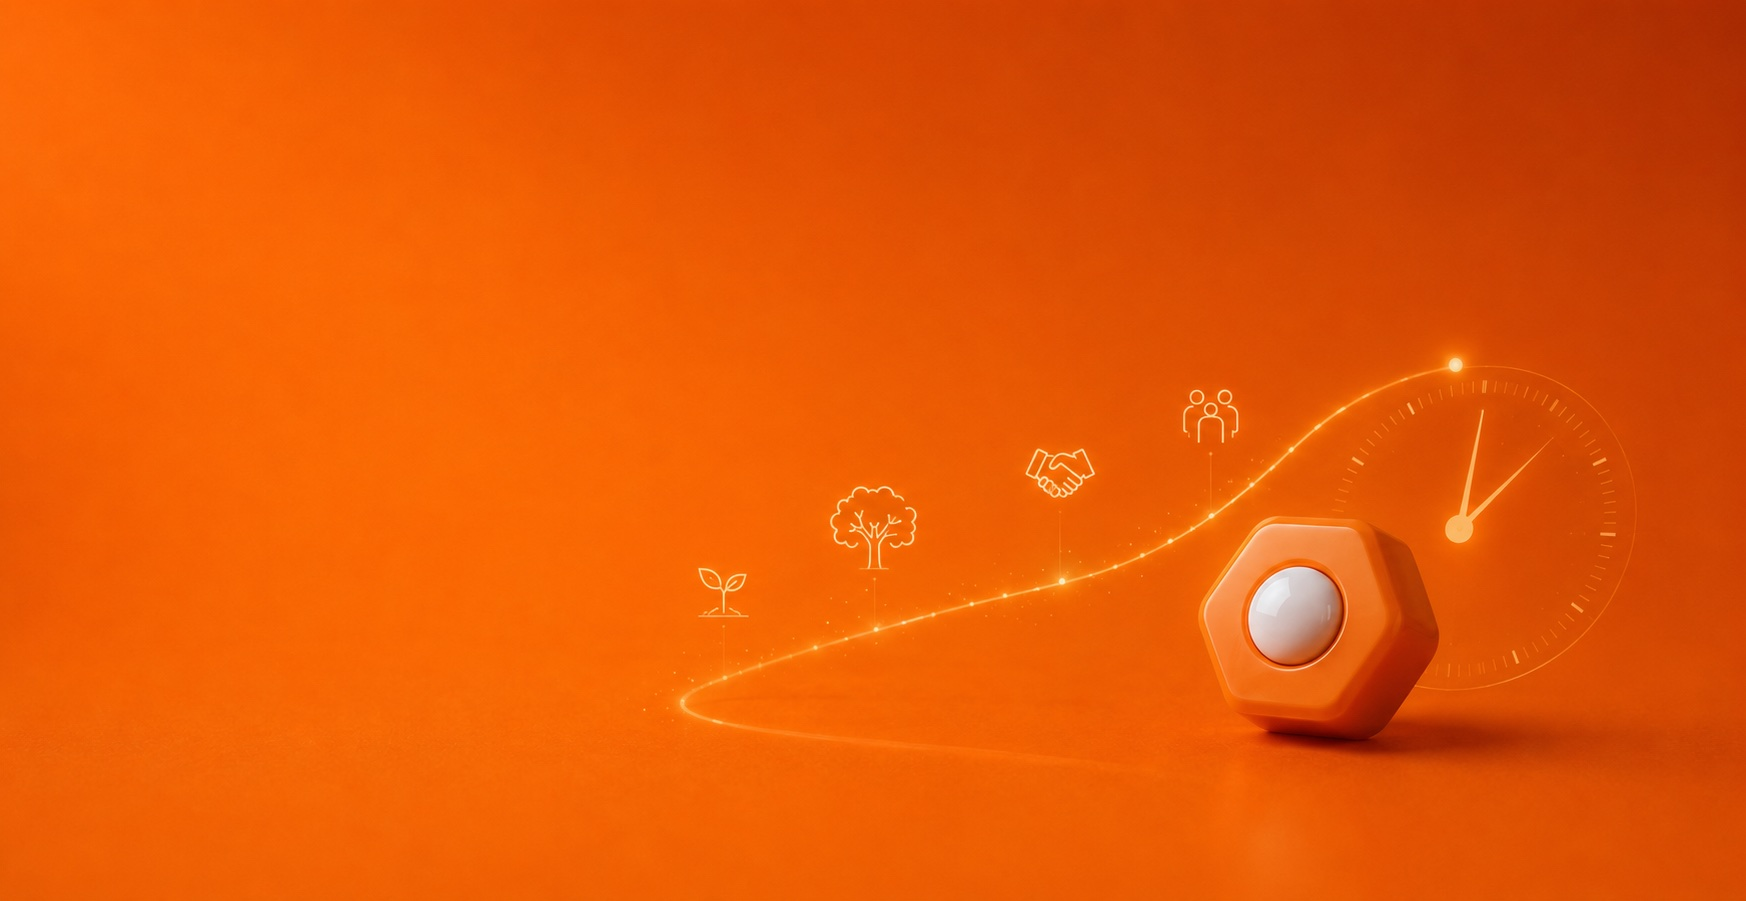
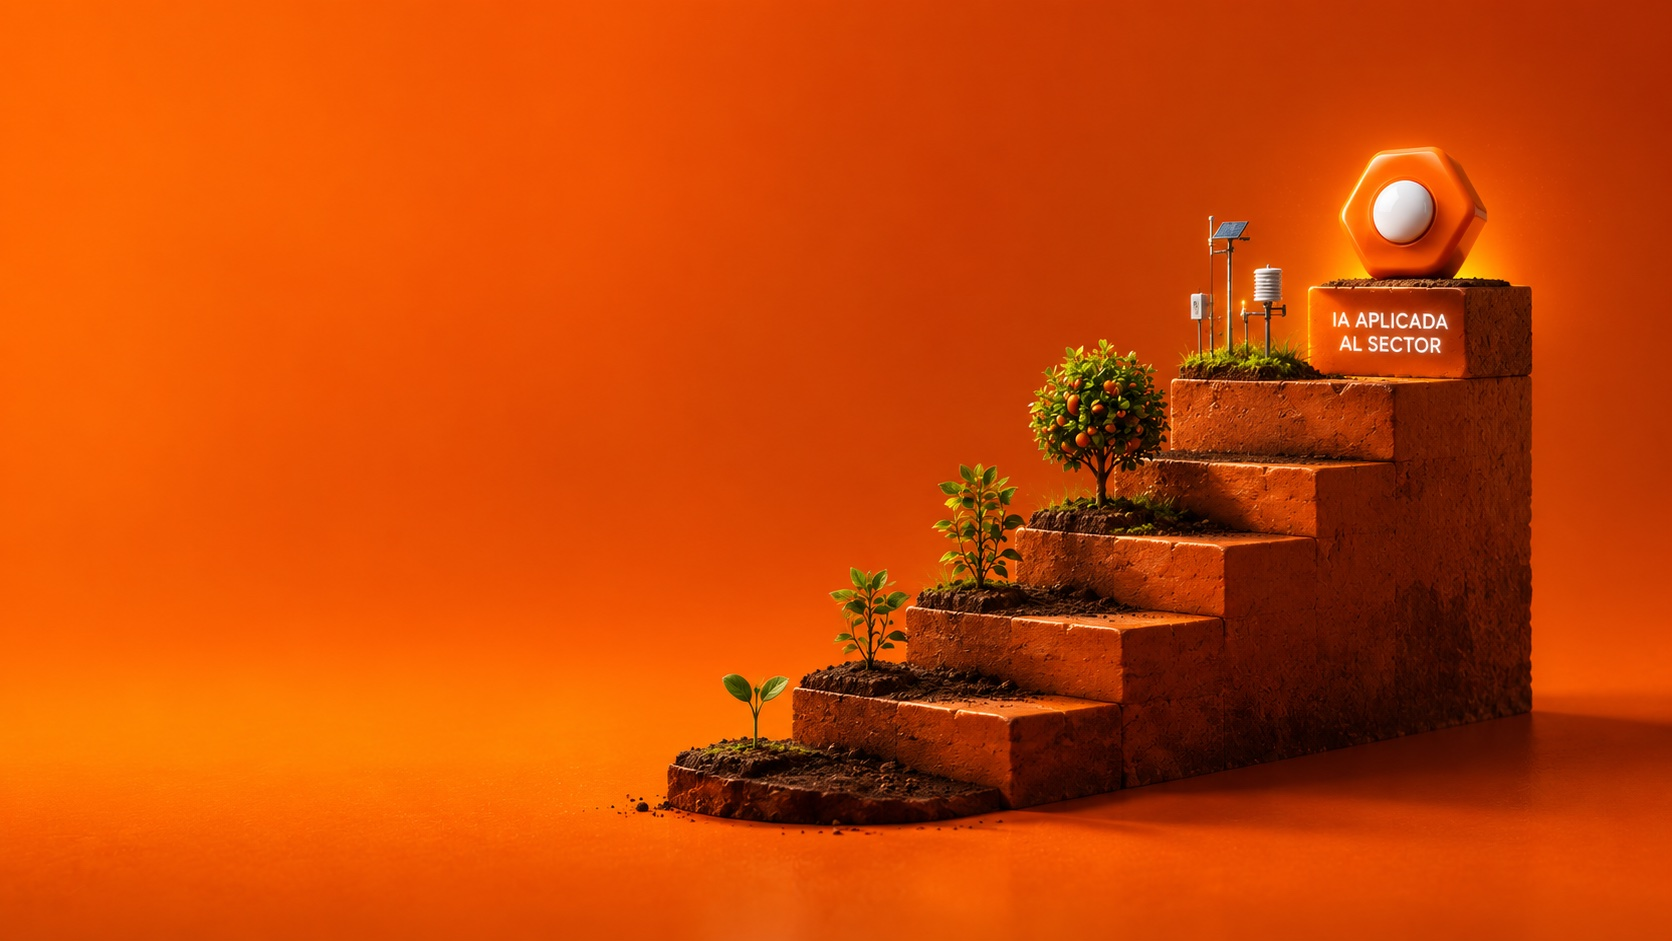
Nosotros hero: nueva imagen escalera de tierra "IA aplicada al sector"
Reemplaza img/nosotros-hero.jpg por la nueva versión: escalera
de tierra ascendente que progresa de un brote → planta → árbol
con frutos → estación meteorológica con sensores → hexágono
naranja con perla en pedestal grabado "IA APLICADA AL SECTOR".
Visualmente potente para representar la trayectoria histórica
de la empresa (2014 → hoy).

- Imagen comprimida con sips JPG 85%: 268KB.
- Cache buster en el background-image: nosotros-hero.jpg?v=2
  para forzar refresh en navegadores que tengan la versión
  anterior cacheada.

Cache bust v63 -> v64.

diff --git a/nosotros.html b/nosotros.html
@@ -29,7 +29,7 @@
   <link rel="preconnect" href="https://fonts.googleapis.com" />
   <link rel="preconnect" href="https://fonts.gstatic.com" crossorigin />
   <link href="https://fonts.googleapis.com/css2?family=Outfit:wght@200;300;400;500;600;700;800;900&family=Bricolage+Grotesque:opsz,wdth,wght@12..96,75..100,400..800&display=swap" rel="stylesheet" />
-  <link rel="stylesheet" href="styles.css?v=63" />
+  <link rel="stylesheet" href="styles.css?v=64" />
 </head>
 <body>
   <!-- Brand mark — referenciable como <use href="#m-nucleo"/> -->
@@ -108,7 +108,7 @@
     <!-- HERO · cinemático para nosotros -->
     <section class="page-hero page-hero--cinema">
       <div class="page-hero__media">
-        <div class="page-hero__image" style="background-image: url('img/nosotros-hero.jpg')"></div>
+        <div class="page-hero__image" style="background-image: url('img/nosotros-hero.jpg?v=2')"></div>
         <div class="page-hero__overlay"></div>
       </div>
       <div class="page-hero__shell">
@@ -369,6 +369,6 @@
   <script src="https://cdn.jsdelivr.net/npm/gsap@3.12.5/dist/gsap.min.js"></script>
   <script src="https://cdn.jsdelivr.net/npm/gsap@3.12.5/dist/ScrollTrigger.min.js"></script>
   <script src="https://unpkg.com/lenis@1.1.13/dist/lenis.min.js"></script>
-  <script src="script.js?v=63"></script>
+  <script src="script.js?v=64"></script>
 </body>
 </html>

diff --git a/aviso-legal.html b/aviso-legal.html
@@ -27,7 +27,7 @@
   <link rel="preconnect" href="https://fonts.googleapis.com" />
   <link rel="preconnect" href="https://fonts.gstatic.com" crossorigin />
   <link href="https://fonts.googleapis.com/css2?family=Outfit:wght@200;300;400;500;600;700;800;900&family=Bricolage+Grotesque:opsz,wdth,wght@12..96,75..100,400..800&display=swap" rel="stylesheet" />
-  <link rel="stylesheet" href="styles.css?v=63" />
+  <link rel="stylesheet" href="styles.css?v=64" />
 </head>
 <body>
   <!-- Brand mark -->
@@ -284,6 +284,6 @@
   <script src="https://cdn.jsdelivr.net/npm/gsap@3.12.5/dist/gsap.min.js"></script>
   <script src="https://cdn.jsdelivr.net/npm/gsap@3.12.5/dist/ScrollTrigger.min.js"></script>
   <script src="https://unpkg.com/lenis@1.1.13/dist/lenis.min.js"></script>
-  <script src="script.js?v=63"></script>
+  <script src="script.js?v=64"></script>
 </body>
 </html>

diff --git a/blog-ia-cooperativas-hortofruticolas.html b/blog-ia-cooperativas-hortofruticolas.html
@@ -47,7 +47,7 @@
   <link rel="preconnect" href="https://fonts.googleapis.com" />
   <link rel="preconnect" href="https://fonts.gstatic.com" crossorigin />
   <link href="https://fonts.googleapis.com/css2?family=Outfit:wght@200;300;400;500;600;700;800;900&family=Bricolage+Grotesque:opsz,wdth,wght@12..96,75..100,400..800&display=swap" rel="stylesheet" />
-  <link rel="stylesheet" href="styles.css?v=63" />
+  <link rel="stylesheet" href="styles.css?v=64" />
 </head>
 <body>
   <svg width="0" height="0" style="position:absolute" aria-hidden="true">
@@ -288,6 +288,6 @@
   <script src="https://cdn.jsdelivr.net/npm/gsap@3.12.5/dist/gsap.min.js"></script>
   <script src="https://cdn.jsdelivr.net/npm/gsap@3.12.5/dist/ScrollTrigger.min.js"></script>
   <script src="https://unpkg.com/lenis@1.1.13/dist/lenis.min.js"></script>
-  <script src="script.js?v=63"></script>
+  <script src="script.js?v=64"></script>
 </body>
 </html>

diff --git a/blog-roi-ia-agroindustria.html b/blog-roi-ia-agroindustria.html
@@ -47,7 +47,7 @@
   <link rel="preconnect" href="https://fonts.googleapis.com" />
   <link rel="preconnect" href="https://fonts.gstatic.com" crossorigin />
   <link href="https://fonts.googleapis.com/css2?family=Outfit:wght@200;300;400;500;600;700;800;900&family=Bricolage+Grotesque:opsz,wdth,wght@12..96,75..100,400..800&display=swap" rel="stylesheet" />
-  <link rel="stylesheet" href="styles.css?v=63" />
+  <link rel="stylesheet" href="styles.css?v=64" />
 </head>
 <body>
   <svg width="0" height="0" style="position:absolute" aria-hidden="true">
@@ -295,6 +295,6 @@
   <script src="https://cdn.jsdelivr.net/npm/gsap@3.12.5/dist/gsap.min.js"></script>
   <script src="https://cdn.jsdelivr.net/npm/gsap@3.12.5/dist/ScrollTrigger.min.js"></script>
   <script src="https://unpkg.com/lenis@1.1.13/dist/lenis.min.js"></script>
-  <script src="script.js?v=63"></script>
+  <script src="script.js?v=64"></script>
 </body>
 </html>

diff --git a/blog-trazabilidad-agroalimentaria.html b/blog-trazabilidad-agroalimentaria.html
@@ -47,7 +47,7 @@
   <link rel="preconnect" href="https://fonts.googleapis.com" />
   <link rel="preconnect" href="https://fonts.gstatic.com" crossorigin />
   <link href="https://fonts.googleapis.com/css2?family=Outfit:wght@200;300;400;500;600;700;800;900&family=Bricolage+Grotesque:opsz,wdth,wght@12..96,75..100,400..800&display=swap" rel="stylesheet" />
-  <link rel="stylesheet" href="styles.css?v=63" />
+  <link rel="stylesheet" href="styles.css?v=64" />
 </head>
 <body>
   <svg width="0" height="0" style="position:absolute" aria-hidden="true">
@@ -295,6 +295,6 @@
   <script src="https://cdn.jsdelivr.net/npm/gsap@3.12.5/dist/gsap.min.js"></script>
   <script src="https://cdn.jsdelivr.net/npm/gsap@3.12.5/dist/ScrollTrigger.min.js"></script>
   <script src="https://unpkg.com/lenis@1.1.13/dist/lenis.min.js"></script>
-  <script src="script.js?v=63"></script>
+  <script src="script.js?v=64"></script>
 </body>
 </html>

diff --git a/blog.html b/blog.html
@@ -44,7 +44,7 @@
   <link rel="preconnect" href="https://fonts.googleapis.com" />
   <link rel="preconnect" href="https://fonts.gstatic.com" crossorigin />
   <link href="https://fonts.googleapis.com/css2?family=Outfit:wght@200;300;400;500;600;700;800;900&family=Bricolage+Grotesque:opsz,wdth,wght@12..96,75..100,400..800&display=swap" rel="stylesheet" />
-  <link rel="stylesheet" href="styles.css?v=63" />
+  <link rel="stylesheet" href="styles.css?v=64" />
 </head>
 <body>
   <svg width="0" height="0" style="position:absolute" aria-hidden="true">
@@ -305,6 +305,6 @@
   <script src="https://cdn.jsdelivr.net/npm/gsap@3.12.5/dist/gsap.min.js"></script>
   <script src="https://cdn.jsdelivr.net/npm/gsap@3.12.5/dist/ScrollTrigger.min.js"></script>
   <script src="https://unpkg.com/lenis@1.1.13/dist/lenis.min.js"></script>
-  <script src="script.js?v=63"></script>
+  <script src="script.js?v=64"></script>
 </body>
 </html>

diff --git a/clientes.html b/clientes.html
@@ -29,7 +29,7 @@
   <link rel="preconnect" href="https://fonts.googleapis.com" />
   <link rel="preconnect" href="https://fonts.gstatic.com" crossorigin />
   <link href="https://fonts.googleapis.com/css2?family=Outfit:wght@200;300;400;500;600;700;800;900&family=Bricolage+Grotesque:opsz,wdth,wght@12..96,75..100,400..800&display=swap" rel="stylesheet" />
-  <link rel="stylesheet" href="styles.css?v=63" />
+  <link rel="stylesheet" href="styles.css?v=64" />
 </head>
 <body>
   <!-- Brand mark — referenciable como <use href="#m-nucleo"/> -->
@@ -362,6 +362,6 @@
   <script src="https://cdn.jsdelivr.net/npm/gsap@3.12.5/dist/gsap.min.js"></script>
   <script src="https://cdn.jsdelivr.net/npm/gsap@3.12.5/dist/ScrollTrigger.min.js"></script>
   <script src="https://unpkg.com/lenis@1.1.13/dist/lenis.min.js"></script>
-  <script src="script.js?v=63"></script>
+  <script src="script.js?v=64"></script>
 </body>
 </html>

diff --git a/contacto.html b/contacto.html
@@ -29,7 +29,7 @@
   <link rel="preconnect" href="https://fonts.googleapis.com" />
   <link rel="preconnect" href="https://fonts.gstatic.com" crossorigin />
   <link href="https://fonts.googleapis.com/css2?family=Outfit:wght@200;300;400;500;600;700;800;900&family=Bricolage+Grotesque:opsz,wdth,wght@12..96,75..100,400..800&display=swap" rel="stylesheet" />
-  <link rel="stylesheet" href="styles.css?v=63" />
+  <link rel="stylesheet" href="styles.css?v=64" />
 </head>
 <body>
   <!-- Brand mark — referenciable como <use href="#m-nucleo"/> -->
@@ -312,6 +312,6 @@
   <script src="https://cdn.jsdelivr.net/npm/gsap@3.12.5/dist/gsap.min.js"></script>
   <script src="https://cdn.jsdelivr.net/npm/gsap@3.12.5/dist/ScrollTrigger.min.js"></script>
   <script src="https://unpkg.com/lenis@1.1.13/dist/lenis.min.js"></script>
-  <script src="script.js?v=63"></script>
+  <script src="script.js?v=64"></script>
 </body>
 </html>

diff --git a/cookies.html b/cookies.html
@@ -27,7 +27,7 @@
   <link rel="preconnect" href="https://fonts.googleapis.com" />
   <link rel="preconnect" href="https://fonts.gstatic.com" crossorigin />
   <link href="https://fonts.googleapis.com/css2?family=Outfit:wght@200;300;400;500;600;700;800;900&family=Bricolage+Grotesque:opsz,wdth,wght@12..96,75..100,400..800&display=swap" rel="stylesheet" />
-  <link rel="stylesheet" href="styles.css?v=63" />
+  <link rel="stylesheet" href="styles.css?v=64" />
 </head>
 <body>
   <!-- Brand mark -->
@@ -317,6 +317,6 @@
   <script src="https://cdn.jsdelivr.net/npm/gsap@3.12.5/dist/gsap.min.js"></script>
   <script src="https://cdn.jsdelivr.net/npm/gsap@3.12.5/dist/ScrollTrigger.min.js"></script>
   <script src="https://unpkg.com/lenis@1.1.13/dist/lenis.min.js"></script>
-  <script src="script.js?v=63"></script>
+  <script src="script.js?v=64"></script>
 </body>
 </html>

diff --git a/demo.html b/demo.html
@@ -28,7 +28,7 @@
   <link rel="preconnect" href="https://fonts.googleapis.com" />
   <link rel="preconnect" href="https://fonts.gstatic.com" crossorigin />
   <link href="https://fonts.googleapis.com/css2?family=Outfit:wght@200;300;400;500;600;700;800;900&family=Bricolage+Grotesque:opsz,wdth,wght@12..96,75..100,400..800&display=swap" rel="stylesheet" />
-  <link rel="stylesheet" href="styles.css?v=63" />
+  <link rel="stylesheet" href="styles.css?v=64" />
 </head>
 <body>
   <svg width="0" height="0" style="position:absolute" aria-hidden="true">
@@ -356,7 +356,7 @@
   <script src="https://cdn.jsdelivr.net/npm/gsap@3.12.5/dist/gsap.min.js"></script>
   <script src="https://cdn.jsdelivr.net/npm/gsap@3.12.5/dist/ScrollTrigger.min.js"></script>
   <script src="https://unpkg.com/lenis@1.1.13/dist/lenis.min.js"></script>
-  <script src="script.js?v=63"></script>
+  <script src="script.js?v=64"></script>
 
   <!-- Tabs + Form -->
   <script>

diff --git a/faq.html b/faq.html
@@ -27,7 +27,7 @@
   <link rel="preconnect" href="https://fonts.googleapis.com" />
   <link rel="preconnect" href="https://fonts.gstatic.com" crossorigin />
   <link href="https://fonts.googleapis.com/css2?family=Outfit:wght@200;300;400;500;600;700;800;900&family=Bricolage+Grotesque:opsz,wdth,wght@12..96,75..100,400..800&display=swap" rel="stylesheet" />
-  <link rel="stylesheet" href="styles.css?v=63" />
+  <link rel="stylesheet" href="styles.css?v=64" />
 </head>
 <body>
   <!-- Brand mark -->
@@ -324,6 +324,6 @@
   <script src="https://cdn.jsdelivr.net/npm/gsap@3.12.5/dist/gsap.min.js"></script>
   <script src="https://cdn.jsdelivr.net/npm/gsap@3.12.5/dist/ScrollTrigger.min.js"></script>
   <script src="https://unpkg.com/lenis@1.1.13/dist/lenis.min.js"></script>
-  <script src="script.js?v=63"></script>
+  <script src="script.js?v=64"></script>
 </body>
 </html>

diff --git a/index.html b/index.html
@@ -30,7 +30,7 @@
   <link rel="preconnect" href="https://fonts.googleapis.com" />
   <link rel="preconnect" href="https://fonts.gstatic.com" crossorigin />
   <link href="https://fonts.googleapis.com/css2?family=Outfit:wght@200;300;400;500;600;700;800;900&family=Bricolage+Grotesque:opsz,wdth,wght@12..96,75..100,400..800&display=swap" rel="stylesheet" />
-  <link rel="stylesheet" href="styles.css?v=63" />
+  <link rel="stylesheet" href="styles.css?v=64" />
 
   <!-- Schema.org Organization -->
   <script type="application/ld+json">
@@ -588,6 +588,6 @@
   <script src="https://cdn.jsdelivr.net/npm/gsap@3.12.5/dist/gsap.min.js"></script>
   <script src="https://cdn.jsdelivr.net/npm/gsap@3.12.5/dist/ScrollTrigger.min.js"></script>
   <script src="https://unpkg.com/lenis@1.1.13/dist/lenis.min.js"></script>
-  <script src="script.js?v=63"></script>
+  <script src="script.js?v=64"></script>
 </body>
 </html>